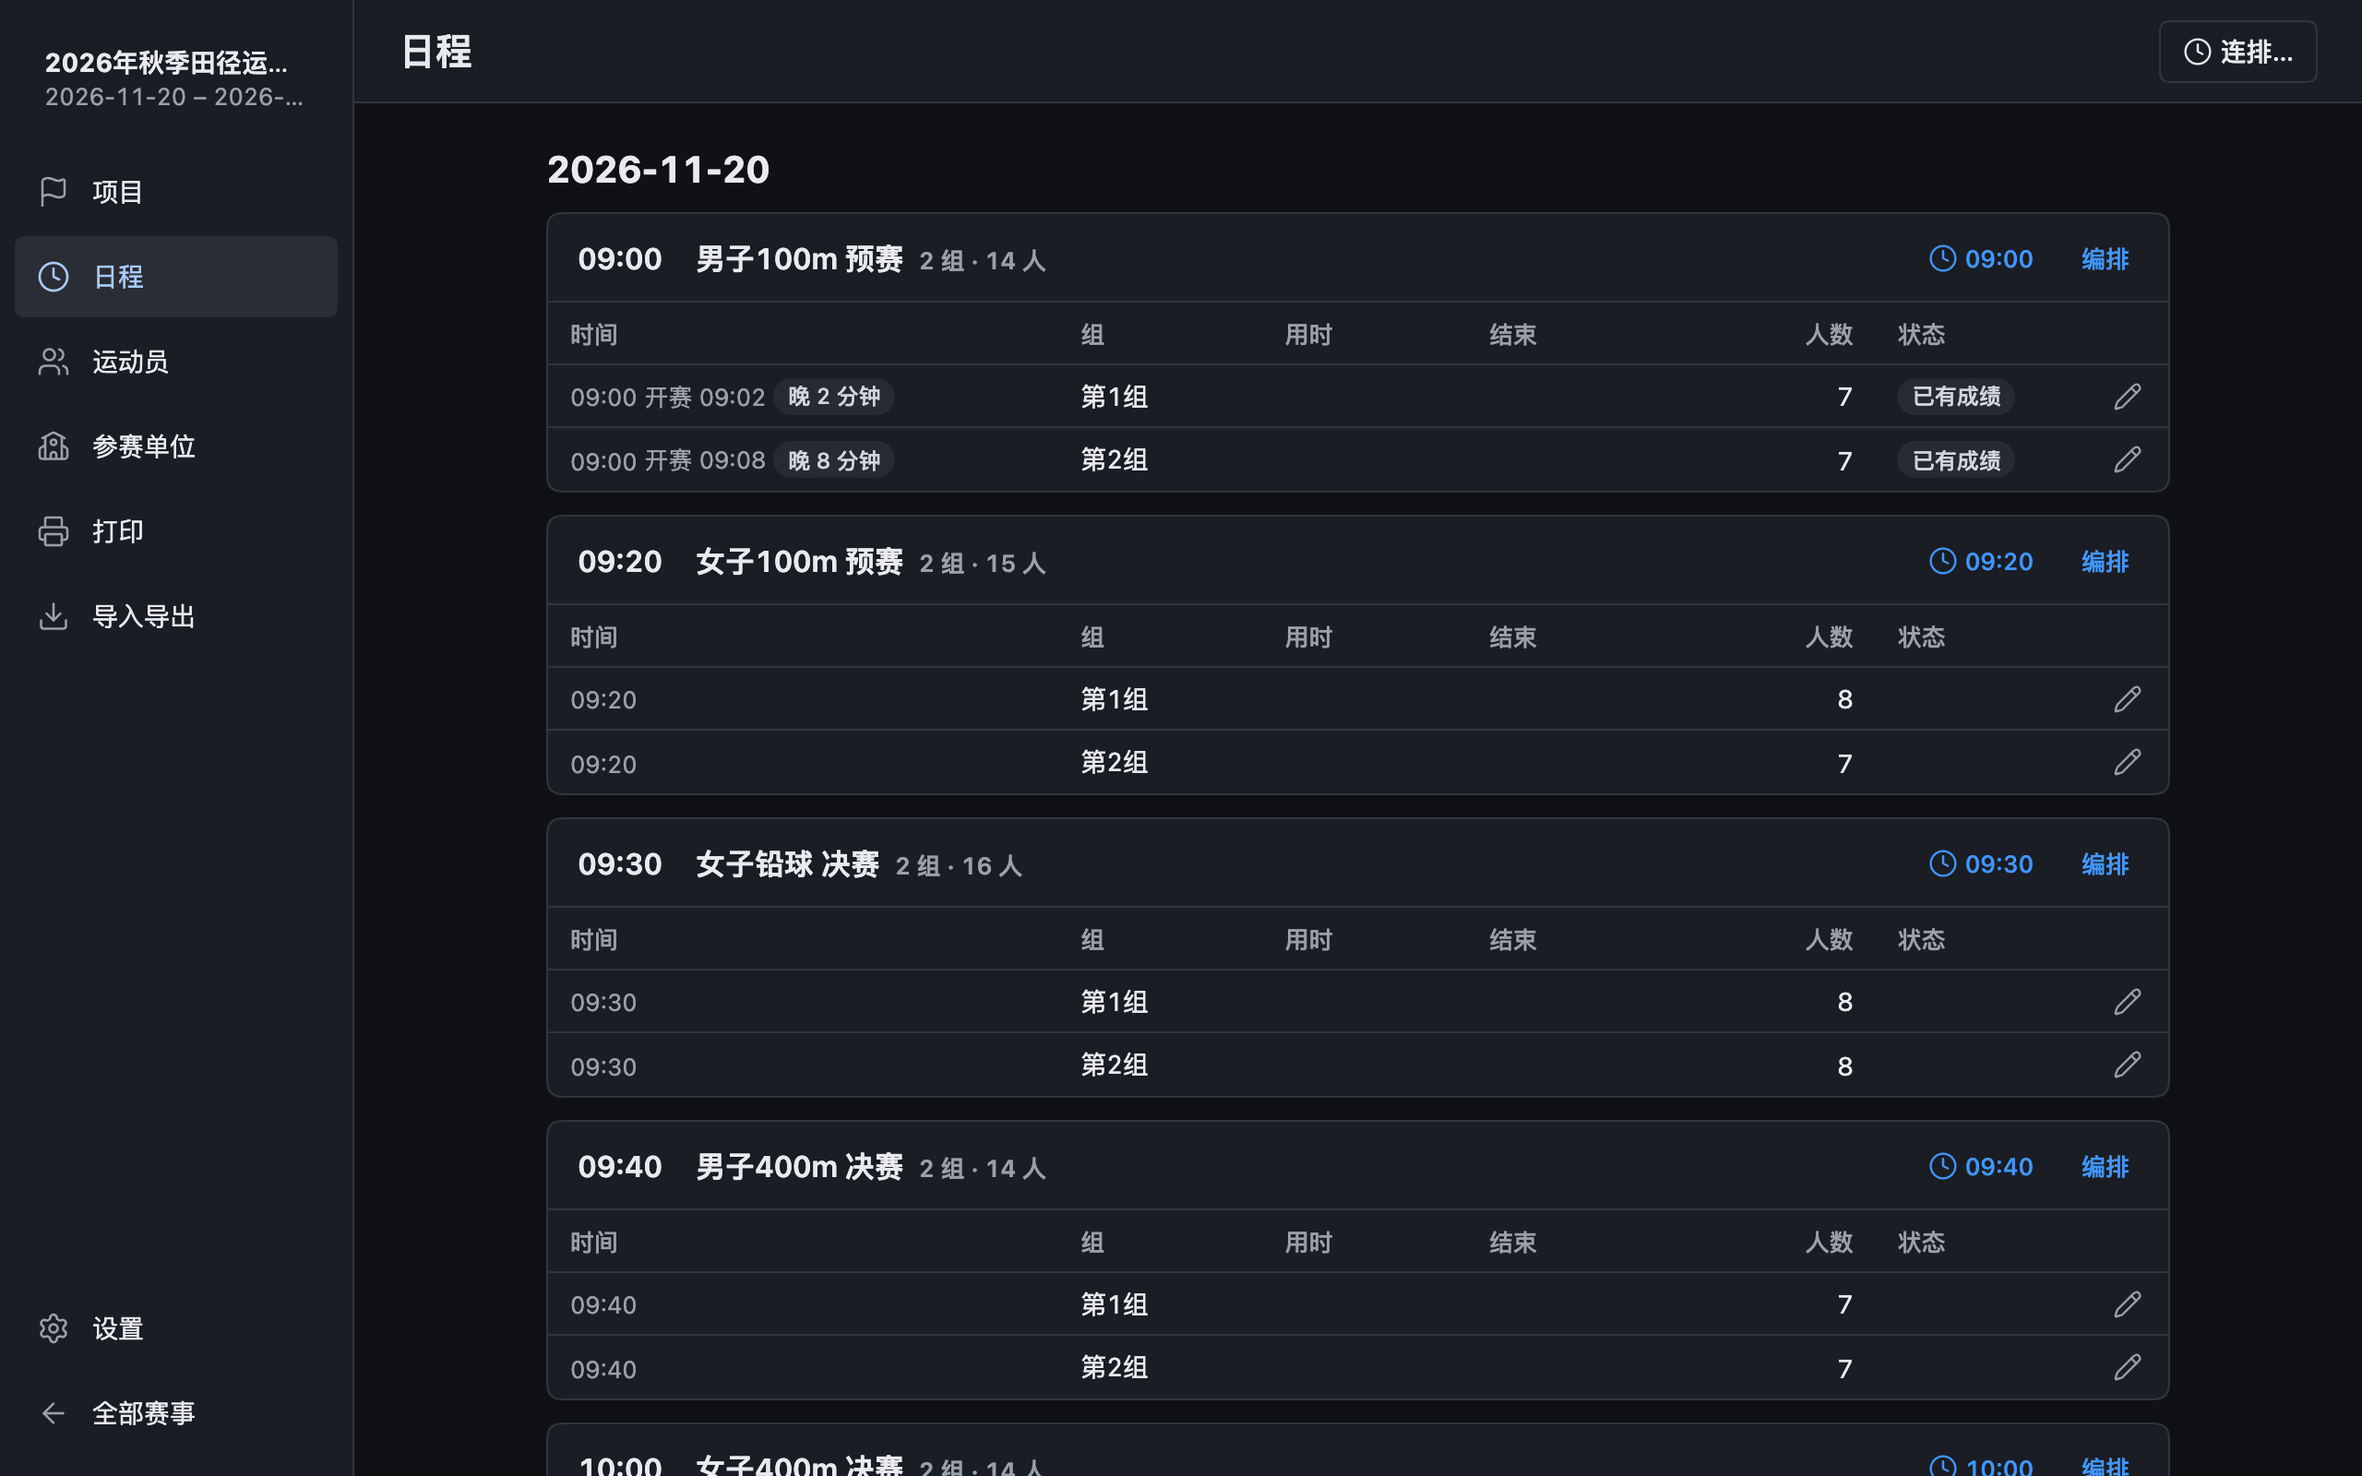
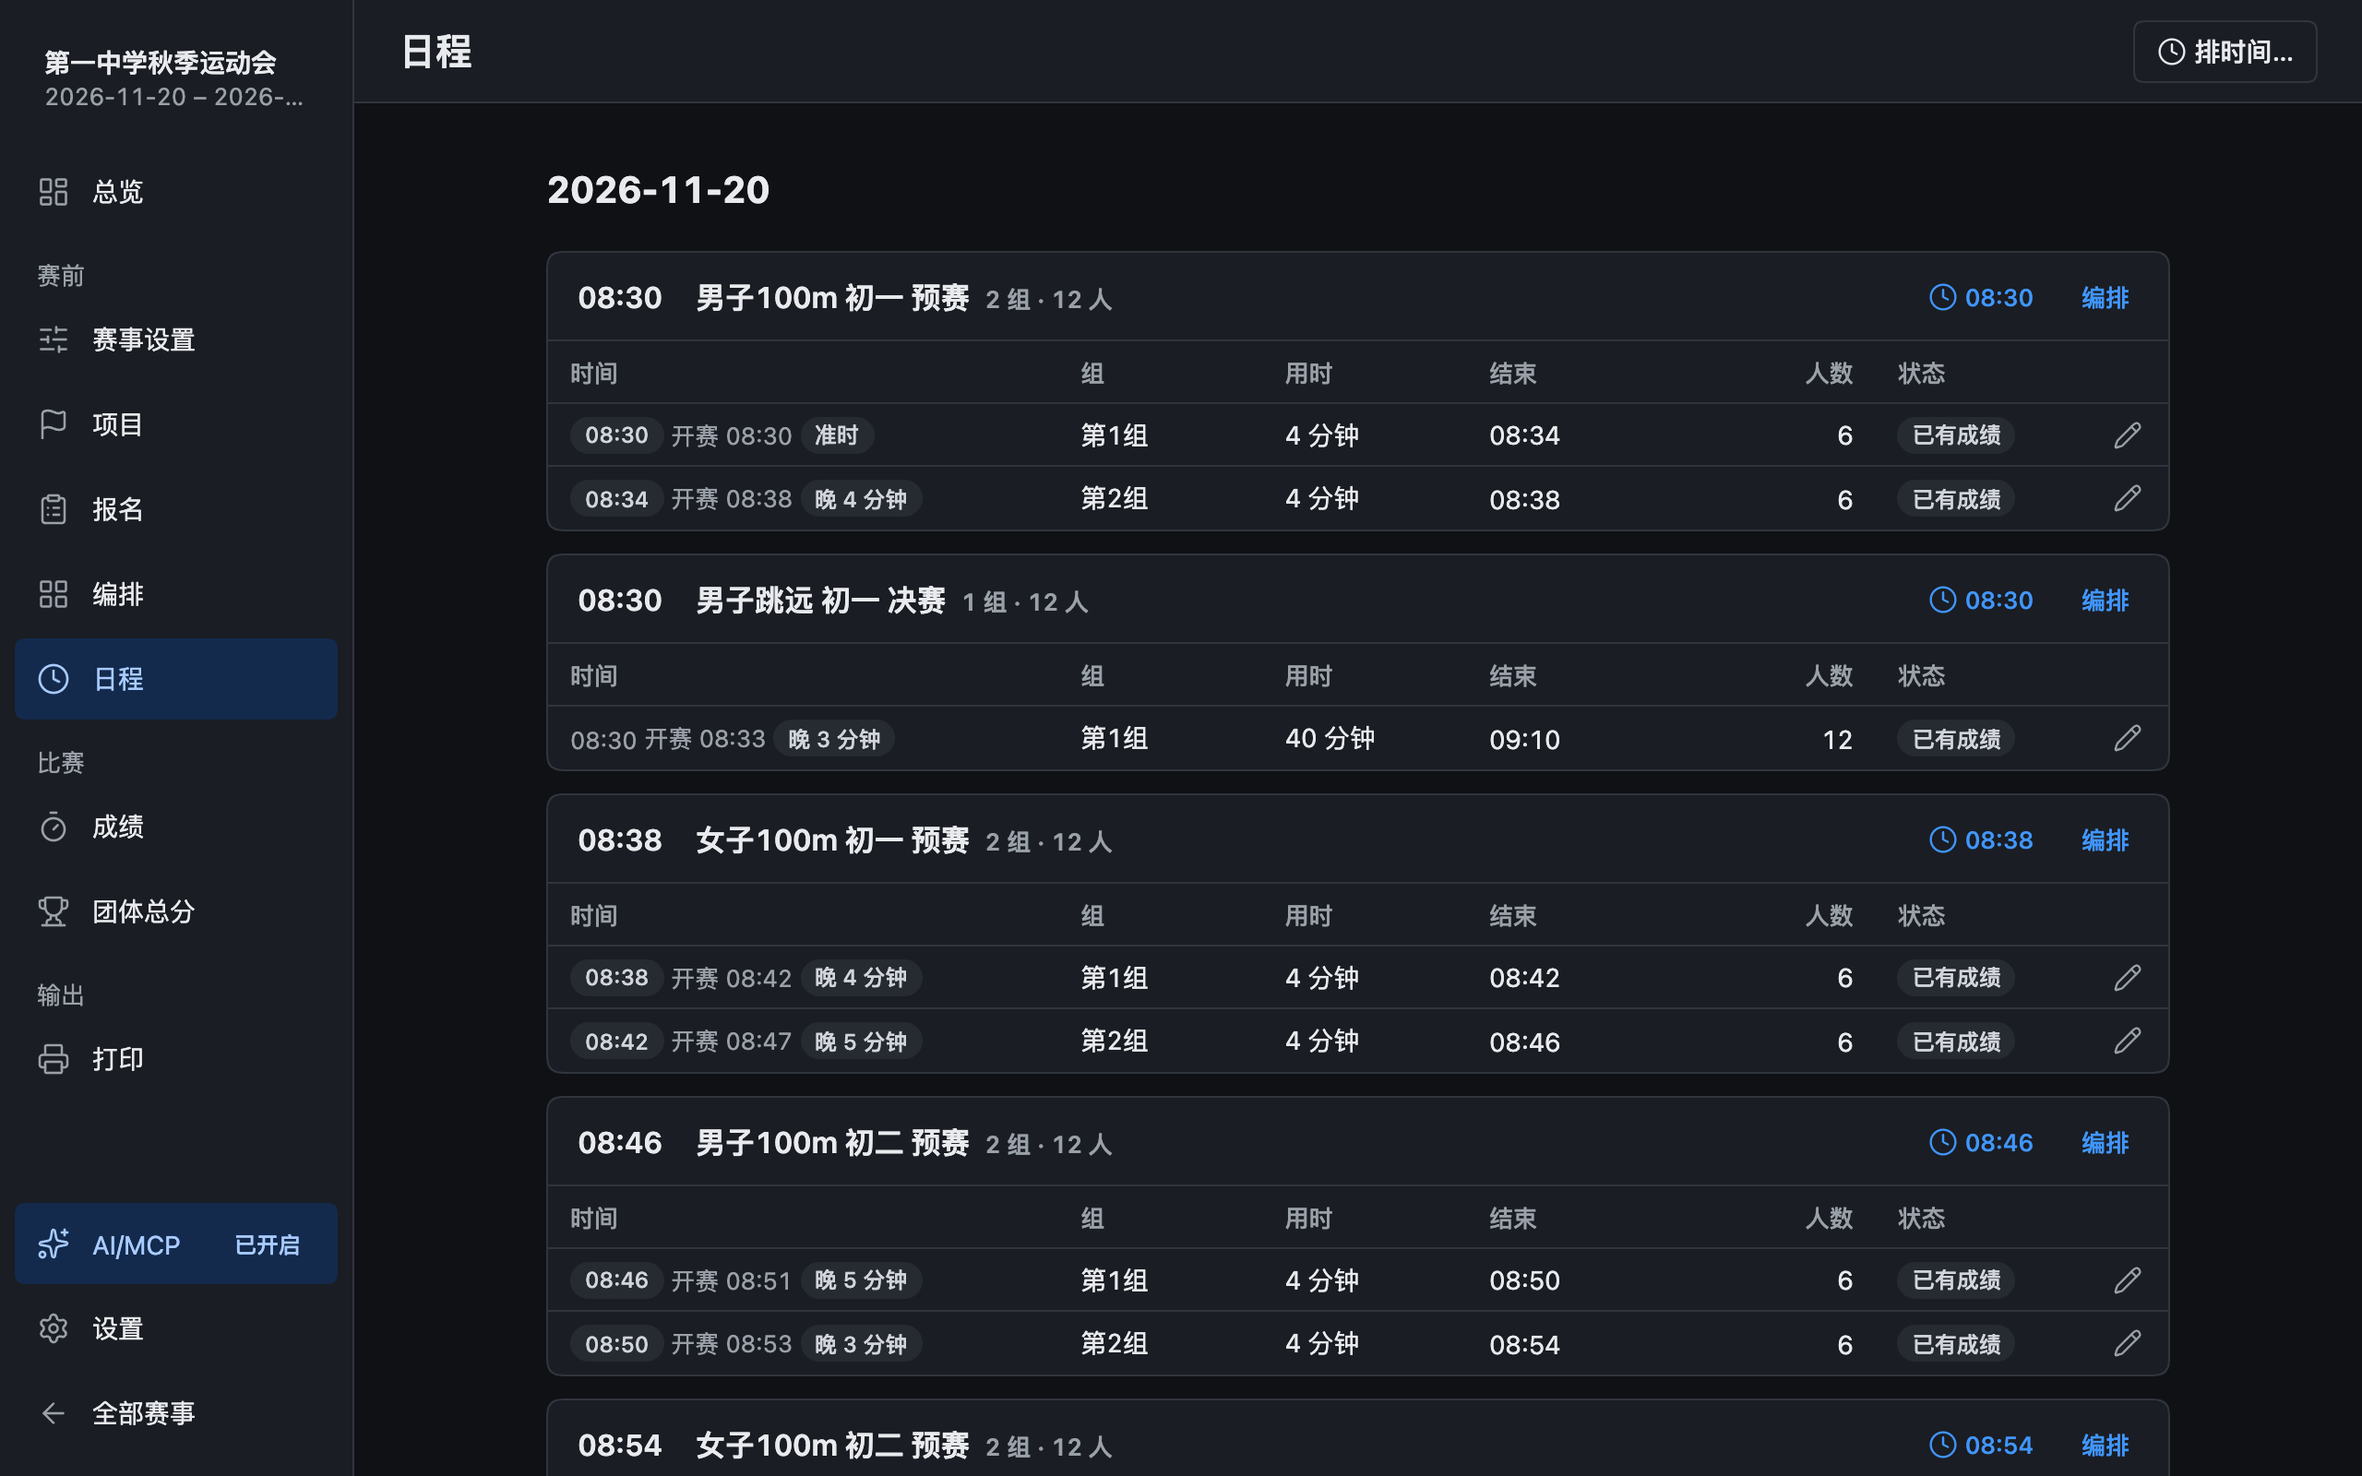
docs(website): 官网换上新界面截图与功能介绍
- 截图按现在的界面重截，浅色、深色各一张，共 9 个页面
- 截图数据是导入真实服务的示例校运会，名次与晋级由应用计算
- 首屏换成总览，功能区扩为报名、编排、日程、成绩、田赛、团体总分、打印、AI 助手 8 节
- 删去不再引用的项目列表与运动员截图
- 在 1280 宽与手机宽度下检查无横向滚动、无缺图
- 同步更新 AGENTS.md

diff --git a/website/index.html b/website/index.html
@@ -8,7 +8,7 @@
 <meta name="color-scheme" content="light dark">
 <meta property="og:title" content="SportsMeet">
 <meta property="og:description" content="免费开源的运动会编排系统">
-<meta property="og:image" content="assets/events-light.png">
+<meta property="og:image" content="assets/overview-light.png">
 <link rel="icon" href="assets/favicon.ico" sizes="any">
 <link rel="icon" href="assets/favicon.svg" type="image/svg+xml">
 <link rel="apple-touch-icon" href="assets/apple-touch-icon.png">
@@ -54,8 +54,8 @@
   </div>
   <figure class="shot hero-shot">
     <picture>
-      <source srcset="assets/events-dark.png" media="(prefers-color-scheme: dark)">
-      <img src="assets/events-light.png" alt="项目列表:每个项目的时间、类型、赛制、报名人数与进度" width="2560" height="1600">
+      <source srcset="assets/overview-dark.png" media="(prefers-color-scheme: dark)">
+      <img src="assets/overview-light.png" alt="总览：赛前、比赛、赛后三段工作流，标出下一步" width="2560" height="1600">
     </picture>
   </figure>
 </section>
@@ -70,28 +70,46 @@
 
   <article class="feature">
     <div class="copy">
-      <h2>分组排道,自动或手动</h2>
-      <p>自动编排只排还没分组的人,可以让同单位的人分开、各组人数均衡。拖动调整后一次保存;已有成绩的组自动锁定,不会被覆盖。</p>
+      <h2>报名登记表，发下去再收回来</h2>
+      <p>按参赛单位导出报名登记表，各班填好交回后一次导入。也可以从表格复制名单粘贴进来。</p>
       <ul>
-        <li>预赛、次赛、半决赛、决赛,各带晋级规则</li>
-        <li>分道、不分道、分道后抢道</li>
-        <li>接力与队伍项目按队编排</li>
+        <li>组别 → 单位的树，按单位看报名进度</li>
+        <li>超项、超额只提示，不拦截</li>
+        <li>号码与学号在赛事内不重复</li>
       </ul>
     </div>
     <figure class="shot">
       <picture>
-        <source srcset="assets/arrange-dark.png" media="(prefers-color-scheme: dark)">
-        <img loading="lazy" src="assets/arrange-light.png" alt="编排页:男子100m 预赛两个组的道次" width="2560" height="1600">
+        <source srcset="assets/entries-dark.png" media="(prefers-color-scheme: dark)">
+        <img loading="lazy" src="assets/entries-light.png" alt="报名页：组别与单位的树、运动员名单与报名项数" width="2560" height="1600">
       </picture>
     </figure>
   </article>
 
   <article class="feature flip">
     <div class="copy">
-      <h2>整场日程一页看清</h2>
-      <p>按天列出每个轮次和每一组的时间。可以把多个轮次连着排,一次定好间隔与预计用时。</p>
+      <h2>分组排道，自动或手动</h2>
+      <p>自动编排只排还没分组的人，同单位尽量分开、各组人数均衡。拖动调整后一次保存；已有成绩的组自动锁定，不会被覆盖。</p>
       <ul>
-        <li>同一运动员两组时间重叠或休息不足时提示</li>
+        <li>预赛、次赛、半决赛、决赛，各带晋级规则</li>
+        <li>分道、不分道、分道后抢道</li>
+        <li>全赛事勾选多个轮次一次编排</li>
+      </ul>
+    </div>
+    <figure class="shot">
+      <picture>
+        <source srcset="assets/arrange-dark.png" media="(prefers-color-scheme: dark)">
+        <img loading="lazy" src="assets/arrange-light.png" alt="编排页：男子400m 两个组的道次" width="2560" height="1600">
+      </picture>
+    </figure>
+  </article>
+
+  <article class="feature">
+    <div class="copy">
+      <h2>整场日程一页看清</h2>
+      <p>按天列出每个轮次和每一组的时间。可以把多个轮次连着排，一次定好间隔与预计用时。</p>
+      <ul>
+        <li>同一运动员时间重叠或休息不足时提示</li>
         <li>接力队员与全能分项一并检查</li>
         <li>记录每组实际开赛时间</li>
       </ul>
@@ -99,60 +117,97 @@
     <figure class="shot">
       <picture>
         <source srcset="assets/schedule-dark.png" media="(prefers-color-scheme: dark)">
-        <img loading="lazy" src="assets/schedule-light.png" alt="日程页:按时间排列的轮次与各组" width="2560" height="1600">
-      </picture>
-    </figure>
-  </article>
-
-  <article class="feature">
-    <div class="copy">
-      <h2>录完成绩,名次就出来</h2>
-      <p>每次保存后重新计算名次与晋级,并列同名次、下一名顺延。<span class="q">Q</span> 按名次晋级,<span class="q">q</span> 按成绩晋级。</p>
-      <ul>
-        <li>径赛计时、远度逐次、高度逐杆</li>
-        <li>计次与计分的校园趣味项目</li>
-        <li>全能按计分表换算积分与总排名</li>
-      </ul>
-    </div>
-    <figure class="shot">
-      <picture>
-        <source srcset="assets/results-dark.png" media="(prefers-color-scheme: dark)">
-        <img loading="lazy" src="assets/results-light.png" alt="成绩页:录入男子100m 预赛成绩后显示名次与晋级标记" width="2560" height="1600">
+        <img loading="lazy" src="assets/schedule-light.png" alt="日程页：按时间排列的轮次与各组，带实际开赛时间" width="2560" height="1600">
       </picture>
     </figure>
   </article>
 
   <article class="feature flip">
     <div class="copy">
-      <h2>秩序册和成绩册直接打印</h2>
-      <p>选好项目,预览就是纸上的样子。秩序册带竞赛日程表;检录单与成绩记录表按轮次分页。</p>
+      <h2>录完成绩，名次就出来</h2>
+      <p>每次保存后重新计算名次与晋级，并列同名次、下一名顺延。<span class="q">Q</span> 按名次晋级，<span class="q">q</span> 按成绩晋级。</p>
       <ul>
-        <li>秩序册、成绩册</li>
-        <li>检录单,自动算出检录时间</li>
-        <li>供裁判手写的成绩记录表</li>
+        <li>径赛计时、远度逐次、高度逐杆</li>
+        <li>并列名次由裁判裁定先后</li>
+        <li>计次、计分与全能积分</li>
       </ul>
     </div>
     <figure class="shot">
       <picture>
-        <source srcset="assets/reports-dark.png" media="(prefers-color-scheme: dark)">
-        <img loading="lazy" src="assets/reports-light.png" alt="打印页:秩序册预览,首页是竞赛日程表" width="2560" height="1600">
+        <source srcset="assets/results-dark.png" media="(prefers-color-scheme: dark)">
+        <img loading="lazy" src="assets/results-light.png" alt="成绩页：男子100m 预赛两组的成绩、名次与晋级标记" width="2560" height="1600">
       </picture>
     </figure>
   </article>
 
   <article class="feature">
     <div class="copy">
-      <h2>报名表一贴就导入</h2>
-      <p>从表格里复制运动员名单粘贴进来,对好列就能导入。运动员属于赛事,各项目共用,号码与学号在赛事内不重复。</p>
+      <h2>田赛逐次录入</h2>
+      <p>远度项目逐次录入，自动取最好成绩排名。高度项目逐杆记录试跳，标出下一跳。</p>
       <ul>
-        <li>35 个常用项目预设,也可自定义</li>
-        <li>参赛单位可以是学校、班级或代表队</li>
+        <li>试跳、试投次数可设</li>
+        <li>最好成绩相同时比次好成绩</li>
+        <li>高度按跨高度连续失败自动判定</li>
       </ul>
     </div>
     <figure class="shot">
       <picture>
-        <source srcset="assets/athletes-dark.png" media="(prefers-color-scheme: dark)">
-        <img loading="lazy" src="assets/athletes-light.png" alt="运动员页:号码、姓名、参赛单位与报名项目数" width="2560" height="1600">
+        <source srcset="assets/field-dark.png" media="(prefers-color-scheme: dark)">
+        <img loading="lazy" src="assets/field-light.png" alt="成绩页：男子跳远三次试跳、最好成绩与名次" width="2560" height="1600">
+      </picture>
+    </figure>
+  </article>
+
+  <article class="feature flip">
+    <div class="copy">
+      <h2>团体总分自动汇总</h2>
+      <p>按决赛名次换算得分，按组别分别给各参赛单位排名。接力、全能可以单独设倍数。</p>
+      <ul>
+        <li>分值、并列规则可自定义</li>
+        <li>男子、女子分开统计</li>
+        <li>直接打印团体总分表</li>
+      </ul>
+    </div>
+    <figure class="shot">
+      <picture>
+        <source srcset="assets/team-scoring-dark.png" media="(prefers-color-scheme: dark)">
+        <img loading="lazy" src="assets/team-scoring-light.png" alt="团体总分页：初一、初二各班的男子、女子与总分" width="2560" height="1600">
+      </picture>
+    </figure>
+  </article>
+
+  <article class="feature">
+    <div class="copy">
+      <h2>秩序册和成绩册直接打印</h2>
+      <p>选好项目，预览就是纸上的样子。分页、续页与页码都排好了。</p>
+      <ul>
+        <li>报名表、秩序册、成绩册</li>
+        <li>检录单，自动算出检录时间</li>
+        <li>供裁判手写的成绩记录表</li>
+      </ul>
+    </div>
+    <figure class="shot">
+      <picture>
+        <source srcset="assets/reports-dark.png" media="(prefers-color-scheme: dark)">
+        <img loading="lazy" src="assets/reports-light.png" alt="打印页：秩序册预览，代表队名单" width="2560" height="1600">
+      </picture>
+    </figure>
+  </article>
+
+  <article class="feature flip">
+    <div class="copy">
+      <h2>让 AI 助手一起干活</h2>
+      <p>Claude Code、Cursor、Codex 等 AI 助手通过本机 MCP 查询赛事、导入报名、编排、排时间和录成绩。</p>
+      <ul>
+        <li>只接受本机连接，使用独立令牌</li>
+        <li>批量改动先预览，确认后才写入</li>
+        <li>名次与晋级仍由应用计算</li>
+      </ul>
+    </div>
+    <figure class="shot">
+      <picture>
+        <source srcset="assets/mcp-dark.png" media="(prefers-color-scheme: dark)">
+        <img loading="lazy" src="assets/mcp-light.png" alt="AI/MCP 页：服务状态、连接信息与支持的 Agent" width="2560" height="1600">
       </picture>
     </figure>
   </article>
@@ -167,8 +222,8 @@
       <p>所有数据存在本机的 SQLite 文件里,不上传。升级前自动备份。</p>
     </div>
     <div class="card">
-      <h3>让 AI 助手帮忙</h3>
-      <p>AI 助手可以通过本机 MCP 查询赛事、导入报名表、编排和录成绩。服务默认开启，在「AI/MCP」管理，只接受本机连接；批量改动先预览，确认后才写入。</p>
+      <h3>自动更新</h3>
+      <p>有新版本时在应用内提示，一键下载安装。也可以选择接收测试版。</p>
     </div>
     <div class="card">
       <h3>开放的交换格式</h3>

diff --git a/AGENTS.md b/AGENTS.md
@@ -87,7 +87,7 @@ SportsMeet/
 ├── scripts/check-design-system.sh   ← 前端棘轮检查(设计系统 + 绑定引用);基线 design-system-baseline.txt
 ├── scripts/generate-brand.mjs       ← 从品牌母版导出资源,同步应用与官网图标
 ├── scripts/website-downloads.mjs    ← 生成要发布的官网:复制 website/,把下载区换成最新 release 的链接
-├── website/                 ← 静态官网(index.html + styles.css,无构建;下载区在发布时替换)与使用文档 docs.html + docs.css;assets/ 里是应用界面截图(浅色 / 深色各一张)与图标
+├── website/                 ← 静态官网(index.html + styles.css,无构建;下载区在发布时替换)与使用文档 docs.html + docs.css;assets/ 里是应用界面截图(浅色 / 深色各一张,README 同样引用)与图标
 ├── .github/workflows/check.yml      ← CI:`bun run check`、绑定生成物比对、页面冒烟测试
 ├── .github/workflows/release.yml    ← 发布 release 后打三个系统的安装包、便携包与签名的更新文件,上传到该 release
 ├── .github/workflows/pages.yml      ← 发布工作流成功后或官网有改动时,把官网发布到 GitHub Pages
